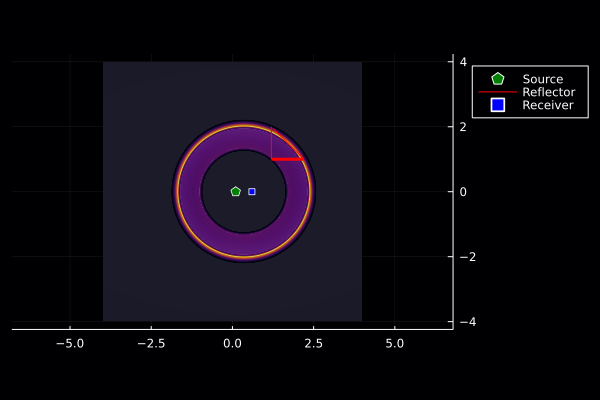
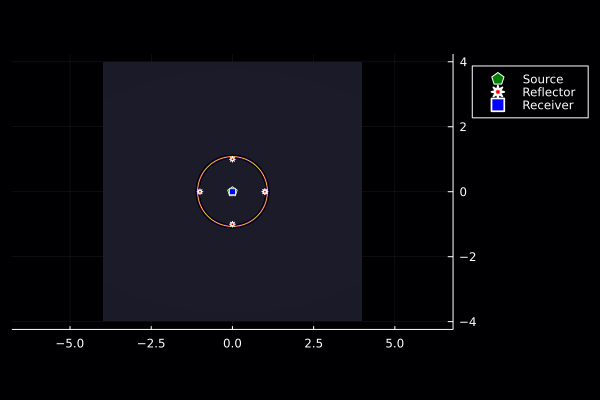
set plot version,added scenarioG LTIOmni

Changed region(s): [[0.27, 0.3, 0.54, 0.66], [0.81, 0.21, 0.87, 0.24]]

diff --git a/docs/src/omniDirectionalLTI/omnidirLTIsource.md b/docs/src/omniDirectionalLTI/omnidirLTIsource.md
@@ -580,3 +580,63 @@ inverse2Dplot([q],[r],[z],f)
 ```
 
 ![](https://raw.githubusercontent.com/NMSU-ISA/LTVsystems/main/docs/src/assets/scenarioF_simulation.png)
+
+## Scenario G
+
+### Scenario Assumptions
+
+* single stationary omnidirectional source
+* single stationary omnidirectional receiver at the same location as source
+* mutliple ideal point reflectors
+* the source emits multiple impulses
+
+Given the assumptions, we simulate the following geometry for scenario F.
+
+![](https://raw.githubusercontent.com/NMSU-ISA/LTVsystems/main/docs/src/assets/scenarioG.png)
+
+### Forward Modeling
+
+```julia
+using LTVsystems
+using Plots
+𝐩ₛ = [0.0, 0.0]
+𝐩ᵣ = [0.0, 0.0]
+T  = 15.0e-9
+p(t) = δn(t-0.5e-9,1.0e-10) + δn(t-0.5e-9-T,1.0e-10) + δn(t-0.5e-9-2T,1.0e-10)+ δn(t-0.5e-9-3T,1.0e-10)
+α₁ = 0.7; 𝛏₁ = [1.0,0.0]
+α₂ = 0.6; 𝛏₂ = [-1.0,0.0]
+α₃ = 0.6; 𝛏₃ = [0.0,1.0]
+α₄ = 0.5; 𝛏₄ = [0.0,-1.0]
+q = LTIsourceO(𝐩ₛ,p)
+r = pointReflector([𝛏₁,𝛏₂,𝛏₃,𝛏₄],[α₁,α₂,α₃,α₄],[q])
+z = LTIreceiverO(r,𝐩ᵣ)
+t = -5.0e-9:1.0e-10:75.0e-9
+p1 = plot(t,p, xlab="time (sec)", ylab="p(t)", legend=:false)
+p2 = plot( t, z(t), xlab="time (sec)", ylab="z(t)", legend=:false)
+plot(p1,p2,layout=(2,1))
+```
+![](https://raw.githubusercontent.com/NMSU-ISA/LTVsystems/main/docs/src/assets/scenarioG_signal.png)
+
+
+### Inverse Modeling
+
+```julia
+using LTVsystems
+using Plots
+𝐩ₛ = [0.0, 0.0]
+𝐩ᵣ = [0.0, 0.0]
+T  = 15.0e-9
+p(t) = δn(t-0.5e-9,1.0e-10) + δn(t-0.5e-9-T,1.0e-10) + δn(t-0.5e-9-2T,1.0e-10)+ δn(t-0.5e-9-3T,1.0e-10)
+α₁ = 0.7; 𝛏₁ = [1.0,0.0]
+α₂ = 0.6; 𝛏₂ = [-1.0,0.0]
+α₃ = 0.6; 𝛏₃ = [0.0,1.0]
+α₄ = 0.5; 𝛏₄ = [0.0,-1.0]
+q = LTIsourceO(𝐩ₛ,p)
+r = pointReflector([𝛏₁,𝛏₂,𝛏₃,𝛏₄],[α₁,α₂,α₃,α₄],[q])
+z = LTIreceiverO(r,𝐩ᵣ)
+zₜ = PulseTrainReceivers(z,T)
+f(ξ::Vector{Float64}) = (zₜ((norm(ξ-𝐩ₛ).+ norm(𝐩ᵣ-ξ))./c))/
+                        (A(norm(ξ-𝐩ₛ)/c).*A(norm(𝐩ᵣ-ξ)/c))
+inverse2Dplot([q],r,[z],f)
+```
+![](https://raw.githubusercontent.com/NMSU-ISA/LTVsystems/main/docs/src/assets/scenarioG_simulation.png)
